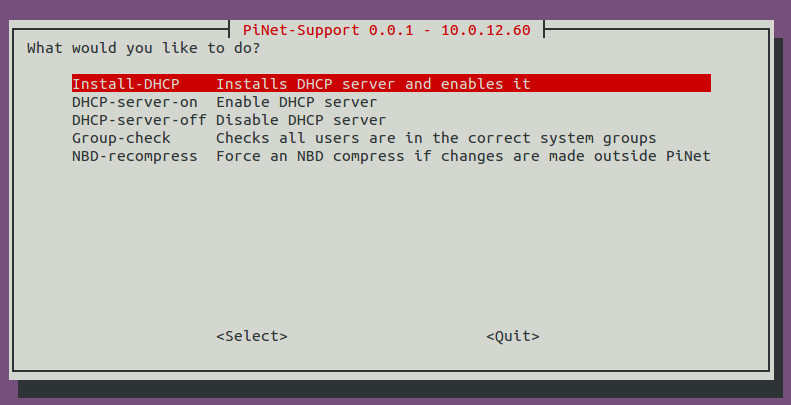
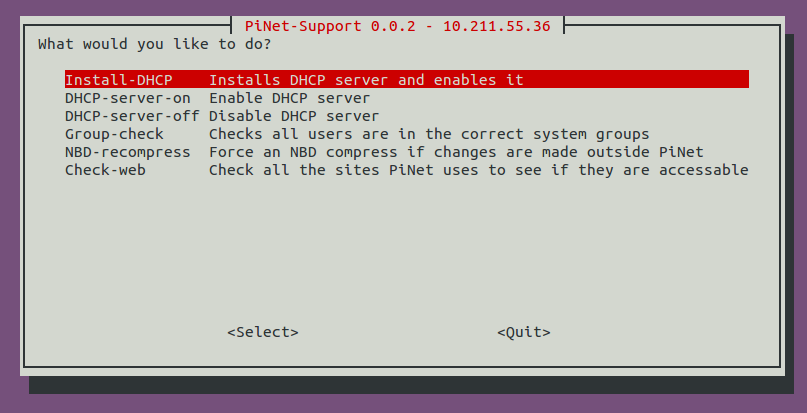
Release 0.0.4 Updated README.md and updated image.

Changed region(s): [[0.0, 0.0296, 1.0, 1.0], [0.2731, 0.7704, 0.3641, 0.8593], [0.6068, 0.7704, 0.6979, 0.8593]]

diff --git a/README.md b/README.md
@@ -2,7 +2,13 @@
 ![](images/pinet-support-main-screen.png)
 
 Experimental support tool for diagnosing issues with PiNet setups.   
-This tool should only be used if directed to do so by PiNet support team.   
+This tool should only be used if directed to do so by PiNet support team or if needing to check web access.   
 
-##Warning
+## Installing
+To install, simply download the main script using wget.   
+1. Open a terminal   
+2. Enter ```wget "https://raw.githubusercontent.com/PiNet/PiNet-Support/master/pinet-support"```
+3. To run it, use ```sudo bash pinet-support```
+
+## Warning
 This the options in this tool can directly interfere with your network and cause major issues if used incorrectly. Use at your own risk.
